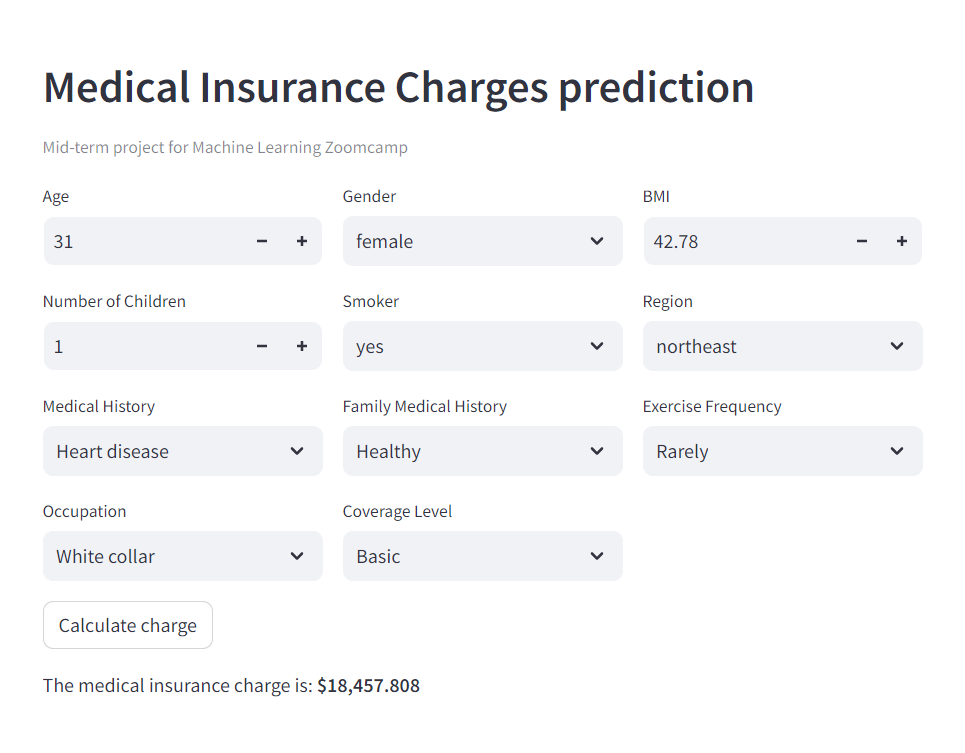
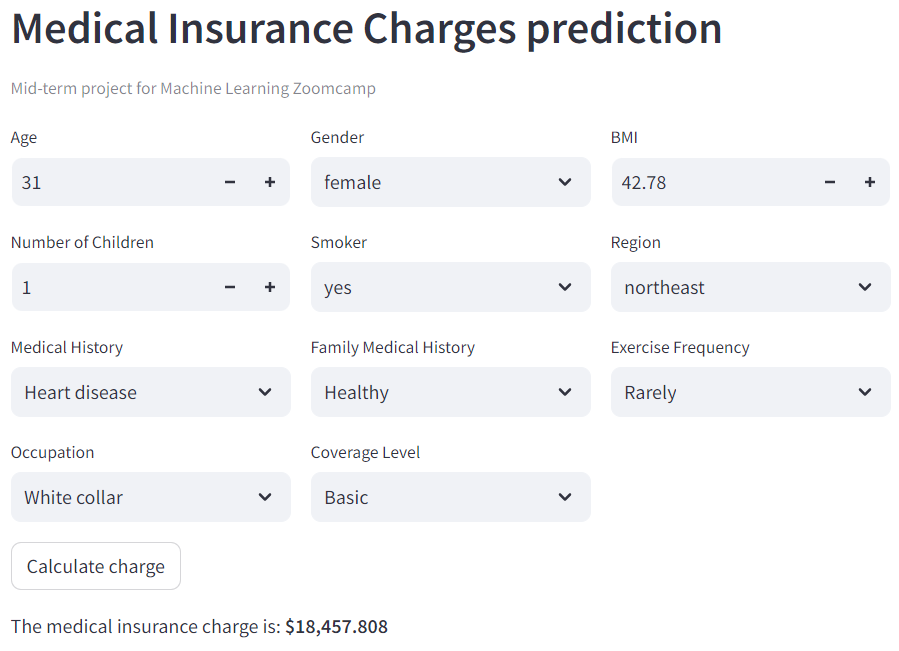
resize images

diff --git a/README.md b/README.md
@@ -52,13 +52,11 @@ The Health Insurance Premium Prediction Database for the United States" is a com
 ## Setup
 
 1. Rename `.env.example` to `.env` and set your Kaggle credentials in this file.
-
-* Sign into [Kaggle account](https://www.kaggle.com).
-* Go to https://www.kaggle.com/settings
-* Click on `Create new Token` to download the `kaggle.json` file
-* Copy `username` and `key` values and past them into `.env` variables respectively.
-
-2. Make installation:
+2. Sign into [Kaggle account](https://www.kaggle.com).
+3. Go to https://www.kaggle.com/settings
+4. Click on `Create new Token` to download the `kaggle.json` file
+5. Copy `username` and `key` values and past them into `.env` variables respectively.
+6. Make installation:
 
 <!--ts-->
 * For UNIX-based systems and Windows (WSL), you do not need to install make.
